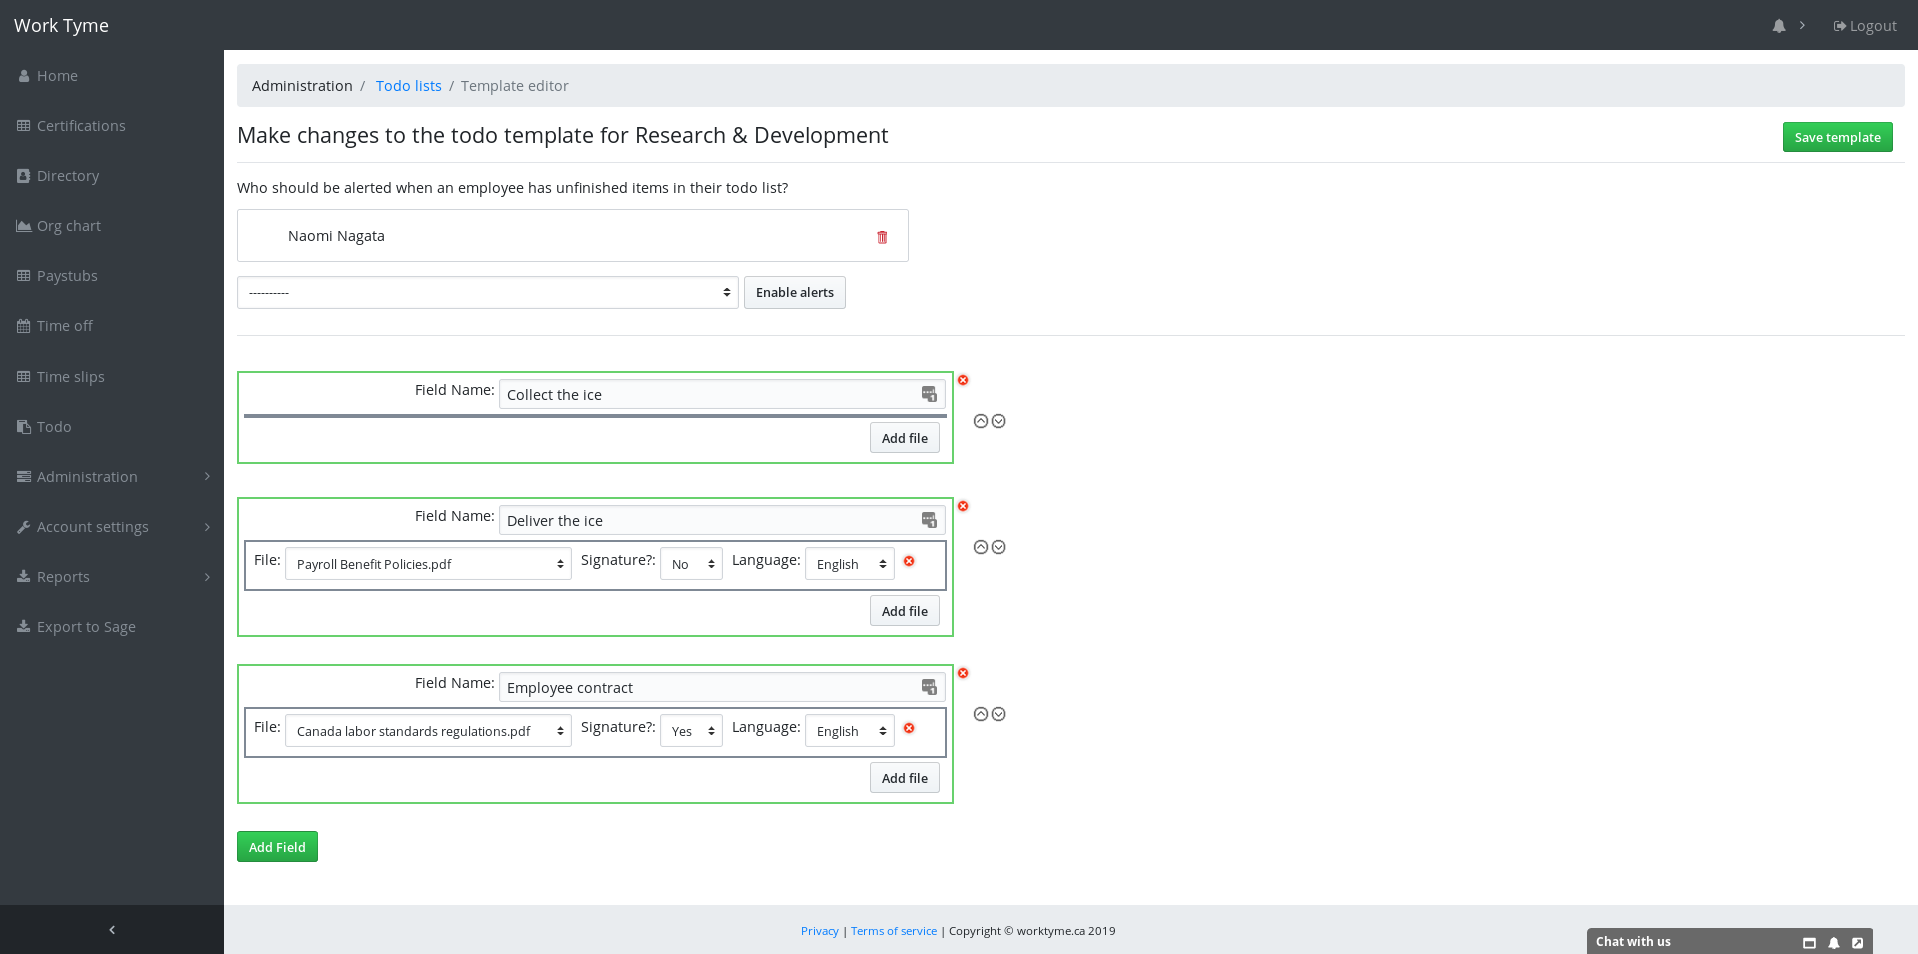
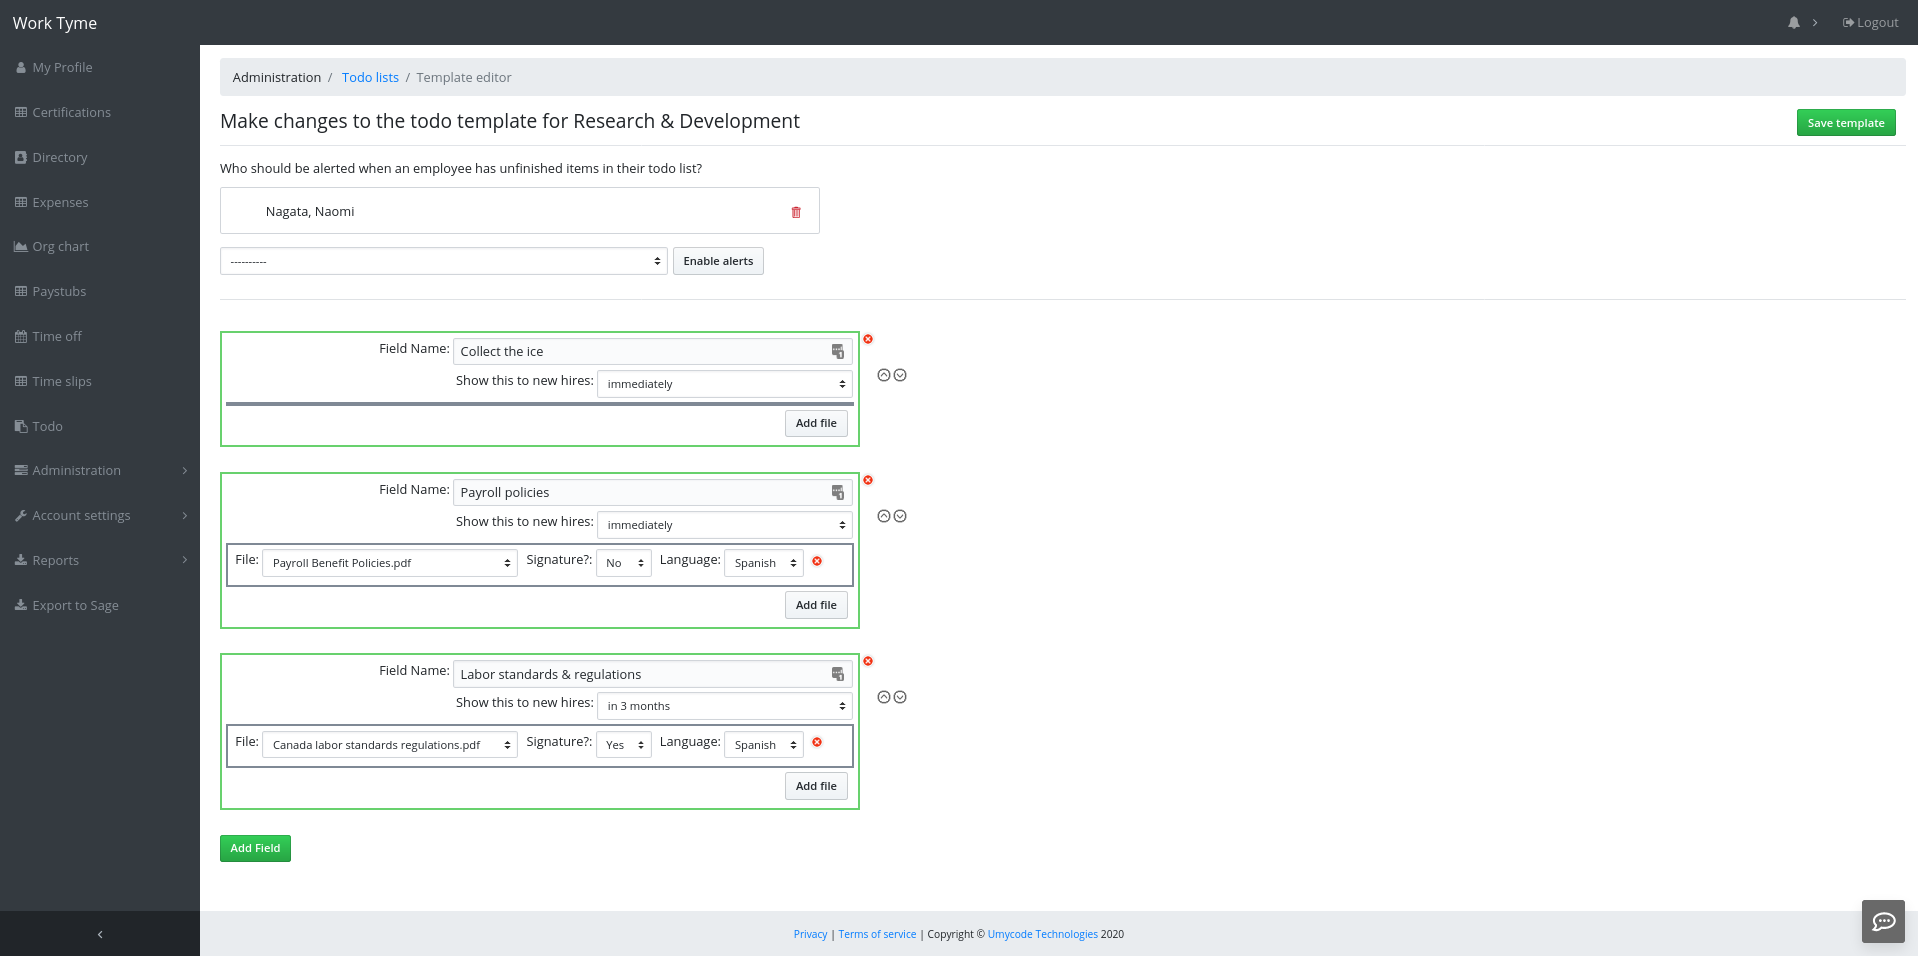
Add a delay to todo list items

diff --git a/content/docs/todo_lists.md b/content/docs/todo_lists.md
@@ -46,6 +46,8 @@ The lower sections is where the different todo list items are defined. To add a 
 
 _If you have uploaded multiple copies of the document in the other languages that Work Tyme supports you can click on "Add file" again and add in line items for each of the languages_
 
+Located below the "Field Name" property is a drop down list that lets you select when you wish for this todo item to be made available to new hires. The options currently available are; immediately, in 3 months after hire, or in 6 months after hire.
+
 
 ## Completing todo list items
 
